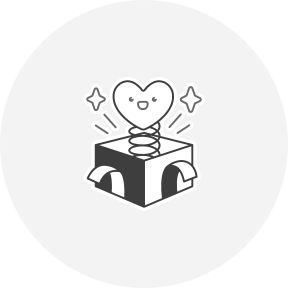
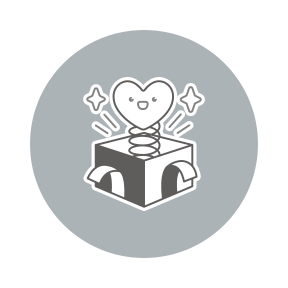
Amelioration du css

diff --git a/front-end/src/index.css b/front-end/src/index.css
@@ -1,3 +1,5 @@
+@import url("https://fonts.googleapis.com/css2?family=Playfair+Display:ital,wght@1,400..900&display=swap");
+
 /* Variables CSS */
 :root {
   /* --- Espacement --- */
@@ -7,12 +9,12 @@
   --rythme-espace: 40px;
   --rythme-tres-espace: 80px;
   /* --- Couleurs --- */
-  --couleur-fond-accent: #faf2ec;
+  --couleur-fond-accent: #f7efeb;
   --couleur-fond: #fffefe;
   --couleur-texte: #4f6376;
-  --couleur-principale: #e04965;
-  --couleur-secondaire: #9e6c72;
-  --couleur-bordure: #d5c1b1;
+  --couleur-principale: #9e1a50;
+  --couleur-secondaire: #6c7b9e;
+  --couleur-bordure: #ceb7d0;
 
   /* --- Interligne --- */
   --interligne-base: 1.5625em;
@@ -20,7 +22,7 @@
   --interligne-logo: 1.78em;
   /* --- Police --- */
   --police-general: "Lora", sans-serif;
-  --police-decorative: "Lora", italic;
+  --police-decorative: "Playfair Display", sans-serif;
   /* --- Taille de police --- */
   --taille-police-petit: 0.9rem;
   --taille-police-normal: 1rem;
@@ -38,7 +40,7 @@
   /* Moyennement doux */
   --box-shadow: 0 3px 8px rgba(0, 0, 0, 0.12);
   /* Points de rupture (ne peuvent pas être utilisés comme variables, mais sont indiqués à titre informatif). */
-  /* --ecran-petit: 768px;
-       --ecran-moyen: 1170px;
-       --ecran-large: 1450px; */
+  /* --ecran-petit: 700px;
+       --ecran-moyen: 1000px;
+       --ecran-large: 1230px; */
 }

diff --git a/front-end/src/composants/CatalogueProduits/FiltresProduits/Filtre/Filtre.css b/front-end/src/composants/CatalogueProduits/FiltresProduits/Filtre/Filtre.css
@@ -6,23 +6,29 @@
   padding: var(--rythme-serre) var(--rythme-base);
   border-radius: var(--arrondi-grand);
   text-align: center;
-  border: none;
+  border: var(--couleur-fond-accent) 1px solid;
   background-color: var(--couleur-fond);
   margin: var(--rythme-base) 0;
-}
-
-.Filtre:hover,
-.Filtre__actif {
   background-color: var(--couleur-fond-accent);
 }
 
-.Filtre:hover .Filtre__titre {
-  font-weight: var(--epaisseur-police-gras);
+.Filtre:hover {
+  border: var(--couleur-bordure) 1px solid;
+  border-radius: var(--arrondi-grand);
+}
+
+.Filtre__actif {
+  background-color: var(--couleur-fond);
+}
+
+.Filtre:hover .Filtre__titre,
+.Filtre__actif .Filtre__titre {
+  color: var(--couleur-principale);
 }
 
 .Filtre__image {
   display: block;
-  height: 200px;
+  height: 160px;
   margin-bottom: var(--rythme-base);
 }
 
@@ -33,6 +39,18 @@
 }
 
 .Filtre__titre {
-  font-weight: var(--epaisseur-police-normale);
-  text-transform: uppercase;
+  font-weight: var(--epaisseur-police-gras);
+  color: var(--couleur-secondaire);
+  font-size: var(--taille-police-normal);
+  font-family: var(--police-decorative);
+}
+
+/* Taille d'ecran inferieur a 1000x */
+@media screen and (max-width: 1000px) {
+  .Filtre__image {
+    display: block;
+    width: 100px;
+    height: auto;
+    margin-bottom: 0;
+  }
 }

diff --git a/front-end/src/composants/CatalogueProduits/CatalogueProduits.jsx b/front-end/src/composants/CatalogueProduits/CatalogueProduits.jsx
@@ -30,18 +30,20 @@ function CatalogueProduits({ gestionPanierProduit, produits }) {
     <section>
       <BanniereCatalogue />
       <h2 className="CatalogueProduits__titre">Découvrez nos produits</h2>
-      <FiltresProduits
-        filtreActuel={filtreActuel}
-        setFiltreActuel={setFiltreActuel}
-      />
-      <div className="CatalogueProduits__produits">
-        {produitsFiltres.map((produitfiltre, index) => (
-          <CarteProduit
-            key={index}
-            produit={produitfiltre}
-            gestionPanierProduit={gestionPanierProduit}
-          />
-        ))}
+      <div class="CatalogueProduits__contenu">
+        <FiltresProduits
+          filtreActuel={filtreActuel}
+          setFiltreActuel={setFiltreActuel}
+        />
+        <div className="CatalogueProduits__produits">
+          {produitsFiltres.map((produitfiltre, index) => (
+            <CarteProduit
+              key={index}
+              produit={produitfiltre}
+              gestionPanierProduit={gestionPanierProduit}
+            />
+          ))}
+        </div>
       </div>
     </section>
   );

diff --git a/front-end/src/composants/compostants-partages/CarteProduit/CarteProduit.jsx b/front-end/src/composants/compostants-partages/CarteProduit/CarteProduit.jsx
@@ -18,9 +18,15 @@ function CarteProduit({ produit, gestionPanierProduit }) {
       </picture>
       <h3 className="CarteProduit__titre">{produit.nom}</h3>
       <div className="CarteProduit__description">
-        <p>Age : {produit.age}</p>
-        <p>Etat : {produit.etat}</p>
-        <p>Prix : {produit.prix}$</p>
+        <p>
+          <span>Age :</span> {produit.age}
+        </p>
+        <p>
+          <span>Etat :</span> {produit.etat}
+        </p>
+        <p>
+          <span>Prix :</span> {produit.prix}$
+        </p>
       </div>
       <BtnPanier
         produit={produit}

diff --git a/front-end/src/composants/CatalogueProduits/FiltresProduits/FiltresProduits.css b/front-end/src/composants/CatalogueProduits/FiltresProduits/FiltresProduits.css
@@ -8,4 +8,18 @@
   justify-content: center;
   border-top: 0.5px solid var(--couleur-bordure);
   border-bottom: 0.5px solid var(--couleur-bordure);
+  background-color: var(--couleur-fond-accent);
+}
+
+/* Taille d'ecran inferieur a 1000x */
+@media screen and (max-width: 1000px) {
+  .FiltresProduits {
+    min-width: 160px;
+    display: flex;
+    flex-direction: column;
+    gap: var(--rythme-base);
+    border-right: 0.5px solid var(--couleur-bordure);
+    border-radius: var(--arrondi-petit);
+    justify-content: start;
+  }
 }

diff --git a/front-end/src/composants/Header/NavPrincipale/NavPrincipale.css b/front-end/src/composants/Header/NavPrincipale/NavPrincipale.css
@@ -13,7 +13,7 @@
 }
 
 .NavPrincipale a {
-  text-transform: uppercase;
+  font-family: var(--police-decorative);
   color: var(--couleur-texte);
   font-weight: var(--epaisseur-police-gras);
   padding: var(--rythme-serre) var(--rythme-base);
@@ -35,4 +35,12 @@
 .NavPrincipale a.active {
   color: var(--couleur-principale);
   text-decoration: underline;
+}
+
+/* Taille d'ecran inferieur a 700px */
+@media screen and (max-width: 700px) {
+  .NavPrincipale {
+    flex-direction: column;
+    gap: 0;
+  }
 }

diff --git a/front-end/src/composants/compostants-partages/CarteProduit/CarteProduit.css b/front-end/src/composants/compostants-partages/CarteProduit/CarteProduit.css
@@ -12,6 +12,7 @@
 
 .CarteProduit__titre {
   text-align: center;
+  color: var(--couleur-secondaire);
 }
 
 .CarteProduit__image {
@@ -29,4 +30,18 @@
 
 .CarteProduit:hover {
   box-shadow: var(--box-shadow);
+}
+
+.CarteProduit__description span {
+  font-weight: var(--epaisseur-police-gras);
+  color: var(--couleur-secondaire);
+}
+
+/* Taille d'ecran inferieur a 1000x */
+@media screen and (max-width: 1000px) {
+  .CarteProduit__image {
+    display: block;
+    width: 200px;
+    height: 200px;
+  }
 }

diff --git a/front-end/src/composants/CatalogueProduits/CatalogueProduits.css b/front-end/src/composants/CatalogueProduits/CatalogueProduits.css
@@ -1,5 +1,5 @@
 .CatalogueProduits__titre {
-  margin-left: var(--rythme-espace);
+  margin: var(--rythme-espace);
 }
 
 .CatalogueProduits__produits {
@@ -9,4 +9,14 @@
   flex-wrap: wrap;
   gap: var(--rythme-espace);
   justify-content: center;
+}
+
+/* Taille d'ecran inferieur a 1000x */
+@media screen and (max-width: 1000px) {
+  .CatalogueProduits__contenu {
+    display: flex;
+    flex-direction: row;
+    gap: var(--rythme-base);
+    justify-content: center;
+  }
 }

diff --git a/front-end/src/composants/Header/Header.css b/front-end/src/composants/Header/Header.css
@@ -3,9 +3,17 @@
 .Header {
   background-color: var(--couleur-fond-accent);
   display: grid;
-  grid-template-columns: 1fr 2fr;
+  grid-template-columns: 1fr 1fr;
   align-items: center;
   padding: var(--rythme-espace);
   border-bottom: solid 0.5px var(--couleur-bordure);
   box-shadow: var(--box-shadow);
+}
+
+/* Taille d'ecran inferieur a 1230x */
+@media screen and (max-width: 1230px) {
+  .Header {
+    display: flex;
+    flex-direction: column;
+  }
 }

diff --git a/front-end/src/composants/compostants-partages/LogoTitre/LogoTitre.css b/front-end/src/composants/compostants-partages/LogoTitre/LogoTitre.css
@@ -27,7 +27,14 @@
 /** ---- Titre  */
 .LogoTitre__titre {
   font-size: var(--taille-police-gros);
-  font-weight: var(--epaisseur-police-tres-gras);
+  font-weight: var(--epaisseur-police-gras);
   font-family: var(--police-decorative);
   color: var(--couleur-principale);
+}
+
+/* Taille d'ecran inferieur a 700px */
+@media screen and (max-width: 700px) {
+  .LogoTitre__titre {
+    font-size: var(--taille-police-moyen);
+  }
 }

diff --git a/front-end/src/composants/Footer/Footer.css b/front-end/src/composants/Footer/Footer.css
@@ -11,3 +11,20 @@ footer {
 .Footer__droits {
   text-align: center;
 }
+
+footer .LogoTitre {
+  margin-left: var(--rythme-espace);
+}
+
+footer .LogoTitre .LogoTitre__titre {
+  font-size: var(--taille-police-moyen);
+}
+
+/* Taille d'ecran inferieur a 1230x */
+@media screen and (max-width: 1230px) {
+  footer {
+    display: flex;
+    flex-direction: column;
+    gap: var(--rythme-base);
+  }
+}

diff --git a/front-end/src/composants/compostants-partages/SectionImageGauche/SectionImageGauche.css b/front-end/src/composants/compostants-partages/SectionImageGauche/SectionImageGauche.css
@@ -35,10 +35,11 @@
   text-align: center;
 }
 
-/* Taille d'ecran inferieur a 768px */
-@media screen and (max-width: 768px) {
+/* Taille d'ecran inferieur a 1230px */
+@media screen and (max-width: 1230px) {
   .SectionImageGauche {
-    text-align: center;
-    justify-items: center;
+    display: flex;
+    flex-direction: column-reverse;
+    gap: var(--rythme-base);
   }
 }
